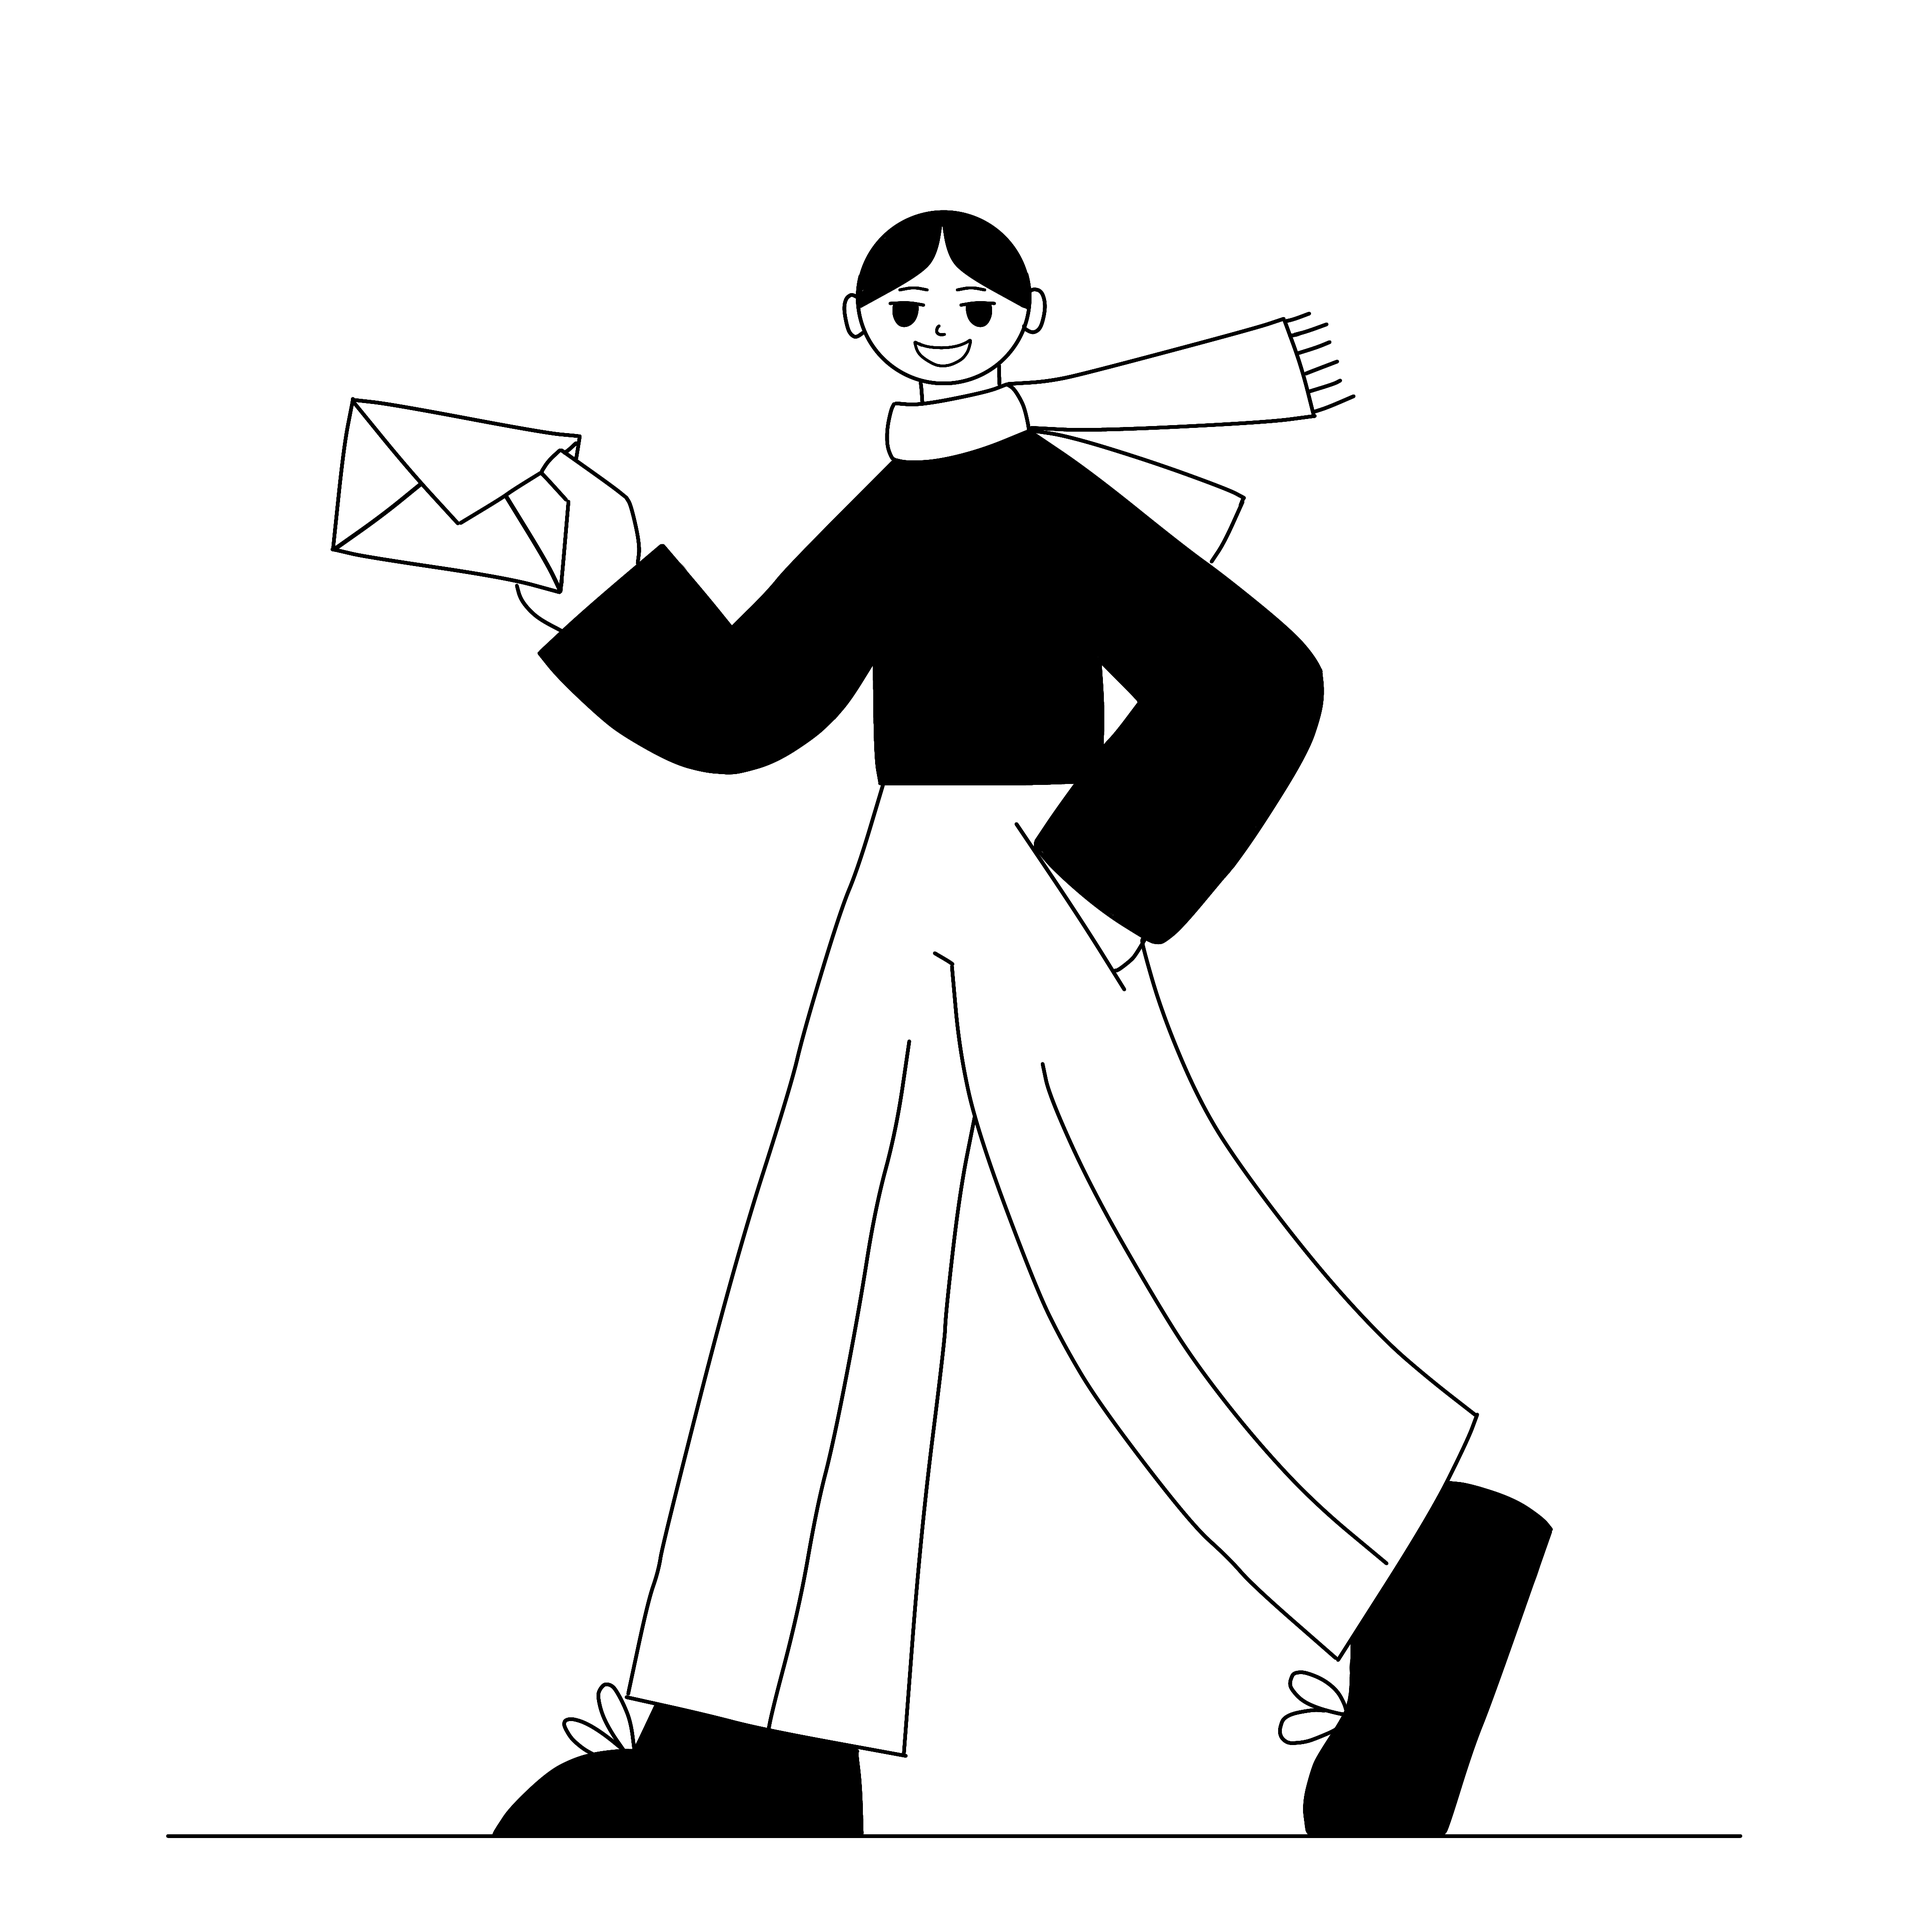
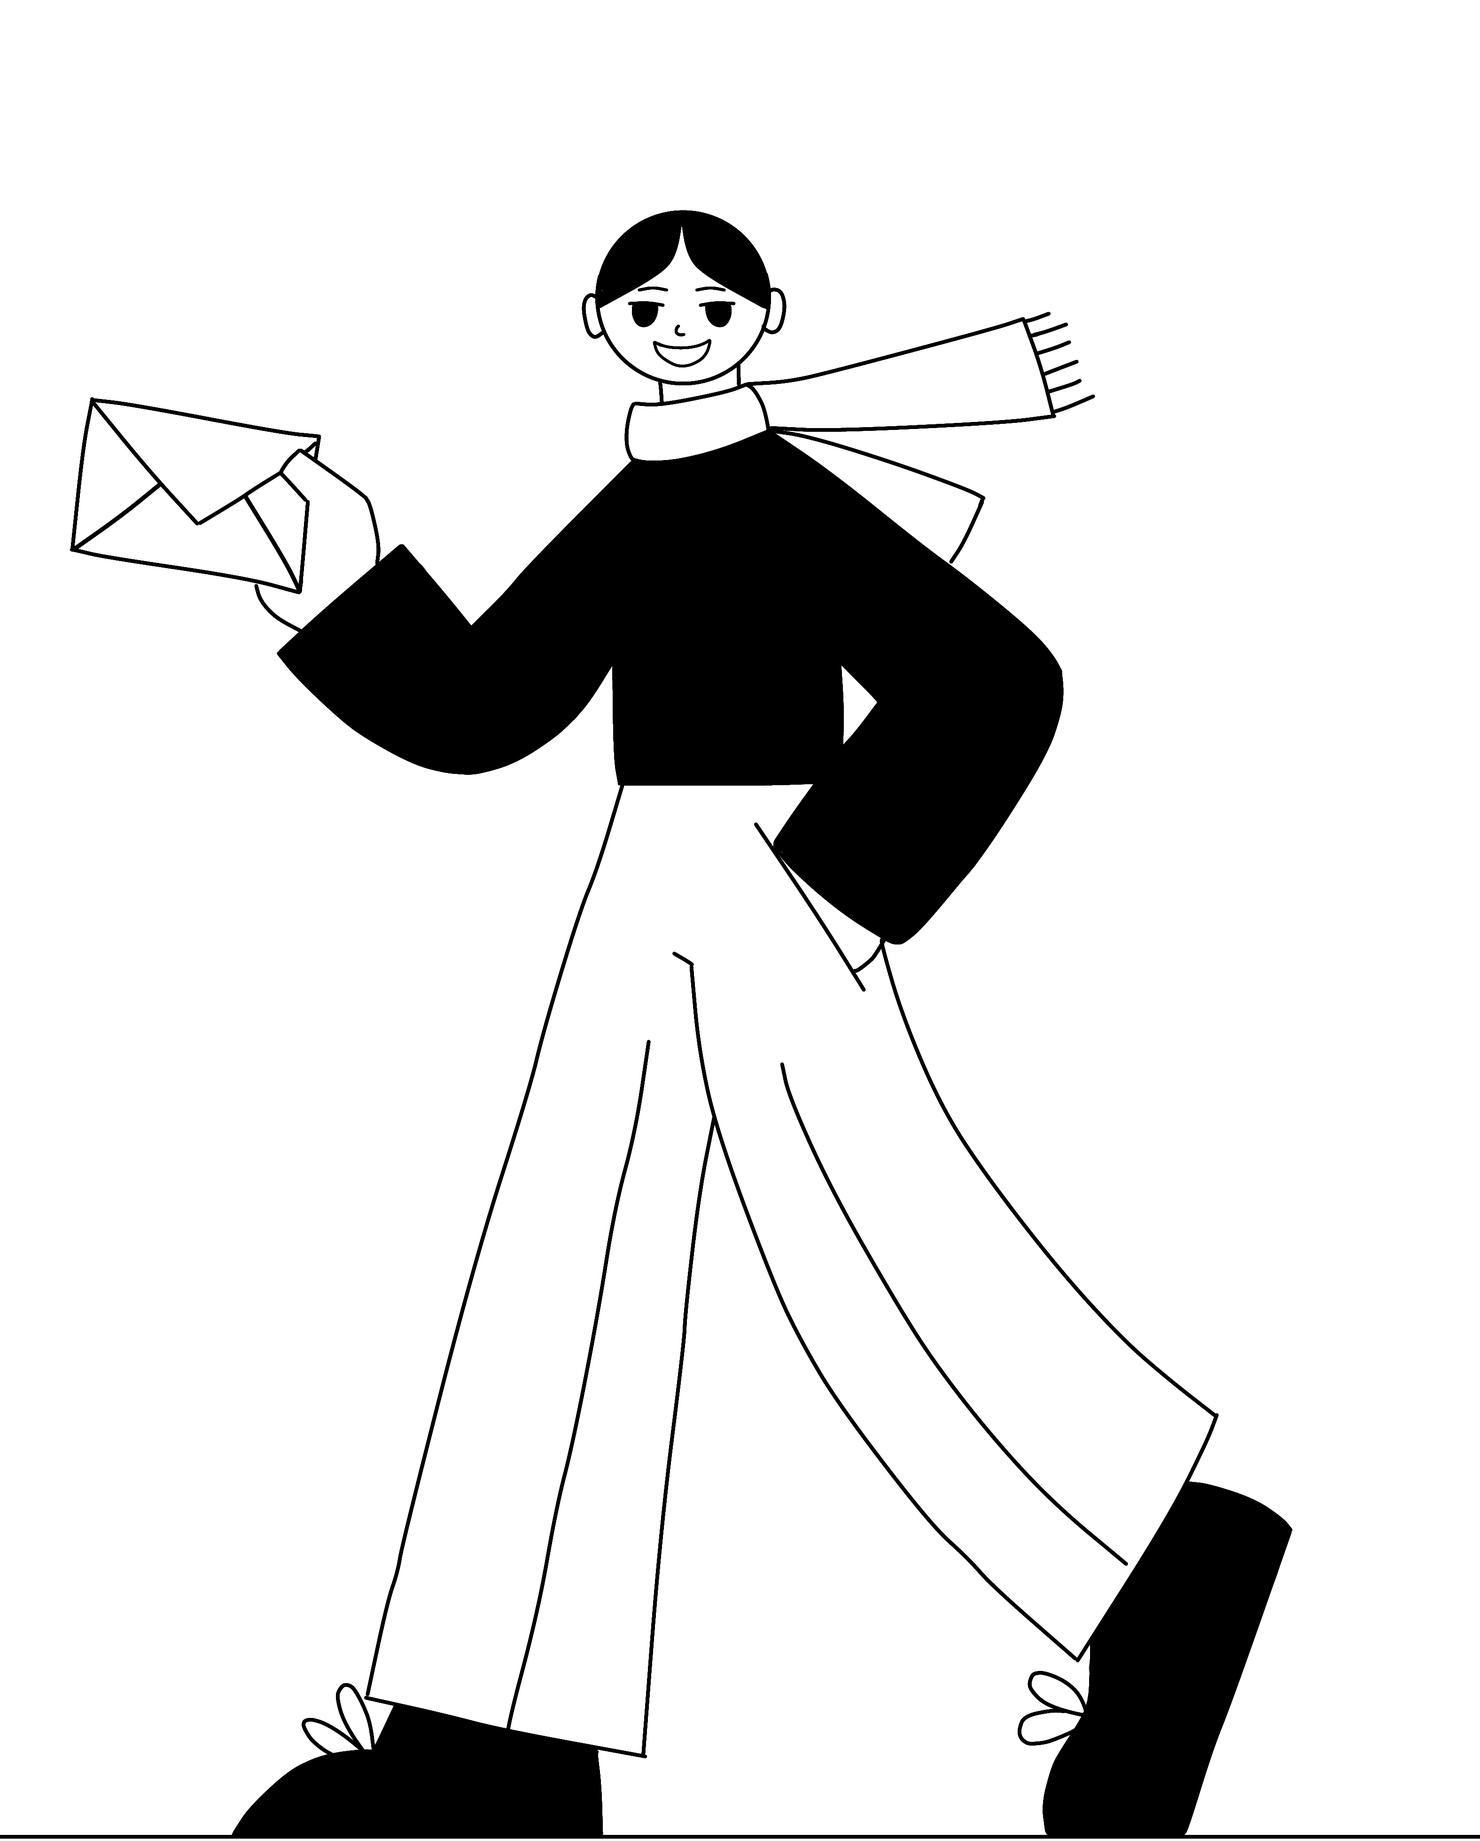
fixed auth pages

diff --git a/src/pages/auth/otp.tsx b/src/pages/auth/otp.tsx
@@ -144,8 +144,11 @@ function Otp() {
 
     return (
         <div className="min-h-screen flex flex-col lg:flex-row bg-base overflow-x-hidden">
-            <div className="hidden lg:flex flex-1 flex-col justify-end overflow-hidden bg-darks dark:bg-second text-white">
-                <div className="flex items-end gap-6 px-10 pt-20 pb-10">
+            {/* Panel kiri: `relative` + `overflow-hidden` jadi tempat dla
+            ilustrasi yang_absolute_ dan sengaja dibuat meluber ke kanan & bawah.
+            Sisi yang keluar panel terpotong mengikuti ukuran div ini. */}
+            <div className="hidden lg:flex flex-1 flex-col justify-start relative overflow-hidden bg-darks dark:bg-second text-white">
+                <div className="flex items-start gap-6 px-10 pt-20 pb-10">
                     <div className="min-w-0 max-w-lg">
                         <div className="flex items-start gap-3 mb-10">
                             <img src={logo} alt="Formaly" className="h-9 w-auto brightness-0 invert" />
@@ -161,13 +164,16 @@ function Otp() {
                             Platform all-in-one untuk kebutuhan form kamu.
                         </p>
                     </div>
-
-                    <img
-                        src={authy}
-                        alt="Ilustrasi"
-                        className="pointer-events-none shrink-0 w-auto max-w-[45%] h-[min(52%,22rem)] lg:h-[min(58%,26rem)] xl:h-[min(64%,30rem)] object-contain object-right-bottom"
-                    />
                 </div>
+
+                {/* Absolute + offset negatif: gambarnya meluber melewati tepi
+                kanan & bawah panel, lalu dipotong `overflow-hidden` Wrapper
+                panel — jadi potongan gambar ikut mengikuti ukuran panel. */}
+                <img
+                    src={authy}
+                    alt="Ilustrasi"
+                    className="pointer-events-none absolute z-0 -right-23 -bottom-40 w-auto max-w-none h-[min(62%,26rem)] lg:h-[min(68%,30rem)] xl:h-[min(74%,34rem)] object-contain object-right-bottom select-none"
+                />
             </div>
 
             <div className="lg:hidden w-full rounded-none bg-darks dark:bg-second px-5 sm:px-10 py-4 flex flex-col justify-center text-white dark:text-second">
@@ -182,7 +188,7 @@ function Otp() {
                         animate="show"
                         className="bg-base lg:bg-white dark:bg-transparent lg:dark:bg-second rounded-2xl border border-transparent lg:border-second p-1 lg:p-8 shadow-none lg:shadow-sm w-full"
                     >
-                        <BackButton to={`/login${nextQuery}`} className="-ml-2"/>
+                        <BackButton to={`/login${nextQuery}`} className="-ml-2" />
                         <div className="flex items-center gap-2 mb-1">
                             <h2 className="text-2xl font-bold text-darks">Verifikasi OTP</h2>
                         </div>

diff --git a/src/pages/auth/forgotPassword.tsx b/src/pages/auth/forgotPassword.tsx
@@ -34,8 +34,11 @@ function ForgotPassword() {
 
     return (
         <div className="min-h-screen flex flex-col lg:flex-row bg-base">
-            <div className="hidden lg:flex flex-1 flex-col justify-end overflow-hidden bg-darks dark:bg-second text-white">
-                <div className="flex items-end gap-6 px-10 pt-20 pb-10">
+            {/* Panel kiri: `relative` + `overflow-hidden` jadi tempat untuk
+            ilustrasi yang_absolute_ dan sengaja meluber ke kanan & bawah; sisi
+            yang keluar panel terpotong mengikuti ukuran div ini. */}
+            <div className="hidden lg:flex flex-1 flex-col justify-start relative overflow-hidden bg-darks dark:bg-second text-white">
+                <div className="flex items-start gap-6 px-10 pt-20 pb-10">
                     <div className="min-w-0 max-w-lg">
                         <div className="flex items-start gap-3 mb-10">
                             <img src={logo} alt="Formaly" className="h-9 w-auto brightness-0 invert" />
@@ -51,13 +54,16 @@ function ForgotPassword() {
                             Platform all-in-one untuk kebutuhan form kamu.
                         </p>
                     </div>
-
-                    <img
-                        src={passy}
-                        alt="Ilustrasi"
-                        className="pointer-events-none shrink-0 w-auto max-w-[45%] h-[min(52%,22rem)] lg:h-[min(58%,26rem)] xl:h-[min(64%,30rem)] object-contain object-right-bottom"
-                    />
                 </div>
+
+                {/* Absolute + offset negatif: gambarnya meluber melewati tepi
+                kanan & bawah panel, lalu dipotong `overflow-hidden` Wrapper
+                panel — jadi potongan gambar ikut mengikuti ukuran panel. */}
+                <img
+                    src={passy}
+                    alt="Ilustrasi"
+                    className="pointer-events-none absolute z-0 right-0 bottom-0 w-auto max-w-none h-[min(50%,32rem)] lg:h-[min(35%,36rem)] xl:h-[min(41%,40rem)] object-contain object-right-bottom select-none"
+                />
             </div>
 
             <div className="lg:hidden w-full rounded-none bg-darks dark:bg-second px-5 sm:px-10 py-4 flex flex-col justify-center text-white dark:text-second">
@@ -72,7 +78,7 @@ function ForgotPassword() {
                         animate="show"
                         className="bg-base lg:bg-white transparent:bg-second lg:dark:bg-second rounded-2xl border border-transparent lg:border-second p-1 lg:p-8 shadow-none lg:shadow-sm w-full"
                     >
-                        <BackButton to="/login" className="-ml-2"/>
+                        <BackButton to="/login" className="-ml-2" />
 
                         <div className="flex items-center gap-2 mb-1">
                             <h2 className="text-3xl font-bold text-darks">Lupa Password</h2>

diff --git a/src/pages/auth/register.tsx b/src/pages/auth/register.tsx
@@ -52,8 +52,11 @@ function Register() {
 
     return (
         <div className="min-h-screen flex flex-col lg:flex-row bg-base">
-            <div className="hidden lg:flex flex-1 flex-col justify-end overflow-hidden bg-darks dark:bg-second text-white">
-                <div className="flex items-end gap-6 px-10 pt-20 pb-10">
+            {/* Panel kiri: `relative` + `overflow-hidden` jadi tempat untuk
+            ilustrasi yang_absolute_ dan sengaja meluber ke kanan & bawah; sisi
+            yang keluar panel terpotong mengikuti ukuran div ini. */}
+            <div className="hidden lg:flex flex-1 flex-col justify-start relative overflow-hidden bg-darks dark:bg-second text-white">
+                <div className="flex items-start gap-6 px-10 pt-20 pb-10">
                     <div className="min-w-0 max-w-lg">
                         <div className="flex items-start gap-3 mb-10">
                             <img src={logo} alt="Formaly" className="h-9 w-auto brightness-0 invert" />
@@ -69,13 +72,16 @@ function Register() {
                             Platform all-in-one untuk kebutuhan form kamu.
                         </p>
                     </div>
-
-                    <img
-                        src={ash}
-                        alt="Ilustrasi"
-                        className="pointer-events-none shrink-0 w-auto max-w-[45%] h-[min(52%,22rem)] lg:h-[min(58%,26rem)] xl:h-[min(64%,30rem)] object-contain object-right-bottom"
-                    />
                 </div>
+
+                {/* Absolute + offset negatif: gambarnya meluber melewati tepi
+                kanan & bawah panel, lalu dipotong `overflow-hidden` Wrapper
+                panel — jadi potongan gambar ikut mengikuti ukuran panel. */}
+                <img
+                    src={ash}
+                    alt="Ilustrasi"
+                    className="pointer-events-none absolute z-0 -right-35 -bottom-35 w-auto max-w-none h-[min(62%,26rem)] lg:h-[min(68%,30rem)] xl:h-[min(74%,34rem)] object-contain object-right-bottom select-none"
+                />
             </div>
 
             <div className="lg:hidden w-full flex-1 rounded-none bg-darks dark:bg-second px-5 sm:px-10 py-8 flex flex-col justify-end text-white dark:text-white">

diff --git a/src/pages/auth/login.tsx b/src/pages/auth/login.tsx
@@ -41,13 +41,9 @@ function Login() {
 
     return (
         <div className="min-h-screen flex flex-col lg:flex-row bg-base">
-            <div className="hidden lg:flex flex-1 flex-col relative overflow-hidden bg-darks dark:bg-second text-white">
-                {/* Dekorasi lembut: blob gradasi di pojok panel */}
-                {/* <span className="pointer-events-none absolute -top-32 -right-24 h-96 w-96 rounded-full bg-white dark:bg-second blur-2xl" />
-                <span className="pointer-events-none absolute -bottom-40 -left-24 h-96 w-96 rounded-full bg-done/10 blur-2xl" /> */}
-
-                <div className="flex flex-col h-full px-3.5 relative z-10 pt-16 pb-[min(52%,22rem)] lg:pb-[min(58%,26rem)] xl:pb-[min(64%,30rem)]">
-                    <div className="max-w-lg ml-10">
+            <div className="hidden lg:flex flex-1 flex-col justify-start relative overflow-hidden bg-darks dark:bg-second text-white">
+                <div className="flex items-start gap-6 px-10 pt-20 pb-10">
+                    <div className="min-w-0 max-w-lg">
                         <div className="flex items-start gap-3 mb-10">
                             <img src={logo} alt="Formaly" className="h-9 w-auto brightness-0 invert" />
                         </div>
@@ -64,10 +60,13 @@ function Login() {
                     </div>
                 </div>
 
+                {/* Absolute + offset negatif: gambarnya meluber melewati tepi
+                kanan & bawah panel, lalu dipotong `overflow-hidden` Wrapper
+                panel — jadi potongan gambar ikut mengikuti ukuran panel. */}
                 <img
                     src={vye}
                     alt="Ilustrasi"
-                    className="pointer-events-none absolute -right-6 -bottom-6 xl:-right-10 xl:-bottom-8 z-0 h-[min(52%,22rem)] lg:h-[min(58%,26rem)] xl:h-[min(64%,30rem)] w-auto max-w-none object-contain object-right-bottom"
+                    className="pointer-events-none absolute z-0 -right-35 -bottom-35 w-auto max-w-none h-[min(62%,26rem)] lg:h-[min(68%,30rem)] xl:h-[min(74%,34rem)] object-contain object-right-bottom select-none"
                 />
             </div>
 
